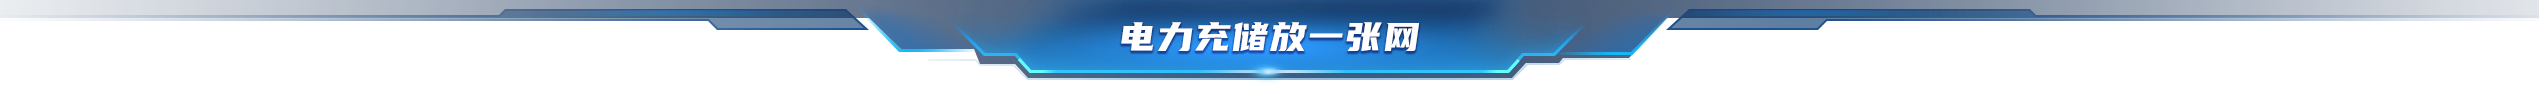
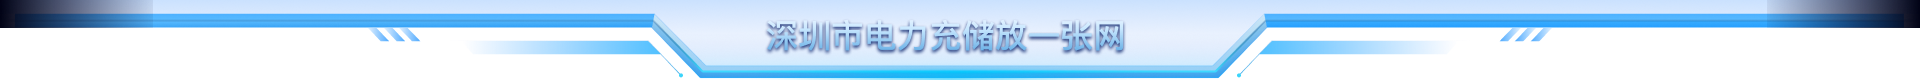
update: 修改头部样式

diff --git a/src/components/layout/components/nav-tab/index.vue b/src/components/layout/components/nav-tab/index.vue
@@ -21,10 +21,10 @@
             ]"
             :data-disabled="item.meta.disabled"
           >
-            <!-- <div class="left-top-dot corner" />
+            <div class="left-top-dot corner" />
             <div class="right-top-dot corner" />
             <div class="left-bottom-dot corner" />
-            <div class="right-bottom-dot corner" /> -->
+            <div class="right-bottom-dot corner" />
             <div>
               {{ item.meta.title }}
             </div>
@@ -156,38 +156,53 @@ export default {
   justify-content: center;
   .nav-item {
     width: 145px;
-    height: 47px;
+    height: 32px;
     display: flex;
     align-items: center;
     justify-content: center;
     font-size: 20px;
     cursor: pointer;
+    background: rgba(84, 181, 255, 0.1);
+    border: 1px solid rgba(84, 181, 255, 0.3);
+    position: relative;
+    color: #BBE1FF;
+    &.active{
+      background: rgba(84, 181, 255, 0.3);
+      border: 1px solid #54B5FF;
+      color: #FFFFFF;
+    }
     &:first-of-type,
     &:nth-child(3) {
       margin-right: 31px;
     }
-    &:first-of-type,
     &:nth-child(2) {
-      background: url(@/assets/images/layout/menu-btn-left.png) no-repeat;
-      background-size: 100% 42px;
-      background-position: bottom left;
-      &.active {
-        background-image: url(@/assets/images/layout/menu-btn-left-active.png);
-        background-size: 100% 100%;
-      }
+      margin-right: 652px;
     }
-    &:last-of-type,
-    &:nth-child(3) {
-      background: url(@/assets/images/layout/menu-btn-right.png) no-repeat;
-      background-size: 100% 42px;
-      background-position: bottom left;
-      &.active {
-        background-image: url(@/assets/images/layout/menu-btn-right-active.png);
-        background-size: 100% 100%;
-      }
+    .corner {
+      position: absolute;
+      width: .02rem;
+      height: .02rem;
+      background: #3CD4FA;
     }
-    &:nth-child(2) {
-      margin-right: 889px;
+  
+    .left-top-dot {
+      top: -1px;
+      left: -1px;
+    }
+  
+    .left-bottom-dot {
+      bottom: -1px;
+      left: -1px;
+    }
+  
+    .right-top-dot {
+      top: -1px;
+      right: -1px;
+    }
+  
+    .right-bottom-dot {
+      right: -1px;
+      bottom: -1px;
     }
   }
 }

diff --git a/src/views/public-service/index.vue b/src/views/public-service/index.vue
@@ -2,7 +2,7 @@
  * @Author: xiang cao caoxiang@sutpc.com
  * @Date: 2023-04-17 11:33:28
  * @LastEditors: xiang cao caoxiang@sutpc.com
- * @LastEditTime: 2023-04-20 19:27:03
+ * @LastEditTime: 2023-04-21 14:23:40
  * @FilePath: \epcsp-dp-web\src\views\public-service\index.vue
  * @Description: 这是默认设置,请设置`customMade`, 打开koroFileHeader查看配置 进行设置: https://github.com/OBKoro1/koro1FileHeader/wiki/%E9%85%8D%E7%BD%AE
 -->
@@ -105,7 +105,7 @@ const getMonthRate = async () => {
         name: item.area_name
       }
     })
-    totalMonthRateNum.value = res?.data?.data[0].chargingSum
+    totalMonthRateNum.value = res?.data?.data[0].useRatio
   } else {
     monthRateData.value = []
     totalMonthRateNum.value = 0

diff --git a/src/components/page-num/index.vue b/src/components/page-num/index.vue
@@ -2,7 +2,7 @@
  * @Author: xiang cao caoxiang@sutpc.com
  * @Date: 2023-04-12 15:03:31
  * @LastEditors: xiang cao caoxiang@sutpc.com
- * @LastEditTime: 2023-04-20 16:54:20
+ * @LastEditTime: 2023-04-21 14:06:33
  * @FilePath: \epcsp-dp-web\src\components\page-num.vue\index.vue.vue
  * @Description: 这是默认设置,请设置`customMade`, 打开koroFileHeader查看配置 进行设置: https://github.com/OBKoro1/koro1FileHeader/wiki/%E9%85%8D%E7%BD%AE
 -->
@@ -37,7 +37,7 @@ const { data } = toRefs(props);
 <style lang="less" scoped>
 .page-num-wrap {
   position: absolute;
-  top: 100px;
+  top: 120px;
   left: 50%;
   transform: translateX(-50%);
   width: 819px;

diff --git a/src/components/title-column/index.vue b/src/components/title-column/index.vue
@@ -2,7 +2,7 @@
  * @Author: xiang cao caoxiang@sutpc.com
  * @Date: 2023-04-11 19:32:11
  * @LastEditors: xiang cao caoxiang@sutpc.com
- * @LastEditTime: 2023-04-18 14:31:06
+ * @LastEditTime: 2023-04-21 14:51:31
  * @FilePath: \epcsp-dp-web\src\components\title-column\index.vue
  * @Description: 这是默认设置,请设置`customMade`, 打开koroFileHeader查看配置 进行设置: https://github.com/OBKoro1/koro1FileHeader/wiki/%E9%85%8D%E7%BD%AE
 -->
@@ -32,7 +32,6 @@ const handleClick = () => {
 </script>
 <style lang="less" scoped>
 .title-column {
-  width: 429px;
   position: relative;
   font-family: 'Inter';
   font-style: normal;

diff --git a/src/components/layout/components/header.vue b/src/components/layout/components/header.vue
@@ -2,7 +2,7 @@
  * @Author: niyayong
  * @LastEditors: xiang cao caoxiang@sutpc.com
  * @Date: 2022-04-18 17:27:54
- * @LastEditTime: 2023-04-12 15:28:54
+ * @LastEditTime: 2023-04-21 14:05:21
  * @FilePath: \zndd-web\src\components\layout\components\header.vue
  * @Description: FilePath
 -->
@@ -47,7 +47,7 @@ export default {
 
 <style lang="less" scoped>
 .subject-header {
-  height: 86px;
+  height: 80px;
   width: 100%;
   position: absolute;
   left: 0;

diff --git a/src/components/layout/index.vue b/src/components/layout/index.vue
@@ -1,7 +1,7 @@
 <!--
  * @Author: qinyushan
  * @Date: 2021-09-07 16:47:01
- * @LastEditTime: 2023-04-20 18:46:36
+ * @LastEditTime: 2023-04-21 14:11:44
  * @LastEditors: xiang cao caoxiang@sutpc.com
  * @FilePath: \zndd-web\src\components\layout\index.vue
  * @Description:
@@ -257,7 +257,7 @@ export default {
 }
 .my-tab-wrap {
   position: absolute;
-  top: 44px;
+  top: 68px;
   left: 50%;
   transform: translateX(-50%);
   z-index: 100;

diff --git a/src/components/panel/index.vue b/src/components/panel/index.vue
@@ -10,7 +10,7 @@
   <div class="mask-bgc" :class="type"></div>
   <div class="panel" :class="type">
     <slot />
-    <div class="circle-bg"></div>
+    <!-- <div class="circle-bg"></div> -->
   </div>
 </template>
 <script setup lang="ts">
@@ -57,7 +57,7 @@ const { type } = toRefs(props);
   position: absolute;
   top: 126px;
   left: 30px;
-  width: 426px;
+  width: 400px;
   z-index: 5;
   .circle-bg {
     position: absolute;

diff --git a/src/components/tabs/index.vue b/src/components/tabs/index.vue
@@ -36,7 +36,6 @@ const handleSelect = (item) => {
 </script>
 <style lang="less" scoped>
 .tabs {
-  width: 425px;
   height: 28px;
   background: url(./images/tabs-bgc.png) no-repeat;
   background-size: 100% 21px;
